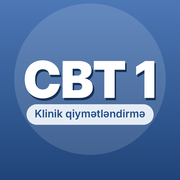
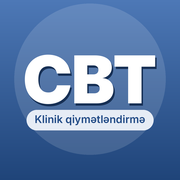
Tətbiq adı CBT (#2)

Changed region(s): [[0.1389, 0.2778, 0.8889, 0.75], [0.1389, 0.4722, 0.1667, 0.5278]]

diff --git a/index.html b/index.html
@@ -4,12 +4,12 @@
     <meta charset="UTF-8">
     <meta name="viewport" content="width=device-width, initial-scale=1.0, user-scalable=yes, viewport-fit=cover">
     <title>AN Psixoloji Dəstək | CBT Klinik Qiymətləndirmə</title>
-    <link rel="manifest" href="manifest.json?v=2">
+    <link rel="manifest" href="manifest.json?v=3">
     <meta name="theme-color" content="#2B5EA8">
-    <link rel="icon" type="image/png" href="icon-192.png?v=2">
-    <link rel="apple-touch-icon" href="apple-touch-icon.png?v=2">
+    <link rel="icon" type="image/png" href="icon-192.png?v=3">
+    <link rel="apple-touch-icon" href="apple-touch-icon.png?v=3">
     <meta name="apple-mobile-web-app-capable" content="yes">
-    <meta name="apple-mobile-web-app-title" content="CBT 1">
+    <meta name="apple-mobile-web-app-title" content="CBT">
     <link href="https://fonts.googleapis.com/css2?family=Playfair+Display:ital,wght@0,600;0,700;0,800;1,600&family=Inter:wght@300;400;500;600;700&display=swap" rel="stylesheet">
     <link rel="stylesheet" href="https://cdnjs.cloudflare.com/ajax/libs/font-awesome/6.0.0-beta3/css/all.min.css">
     <style>

diff --git a/sw.js b/sw.js
@@ -1,4 +1,4 @@
-const CACHE = "cbt1-v1";
+const CACHE = "cbt1-v2";
 const ASSETS = ["./", "./index.html", "./manifest.json", "./icon-192.png", "./icon-512.png"];
 
 self.addEventListener("install", (e) => {
